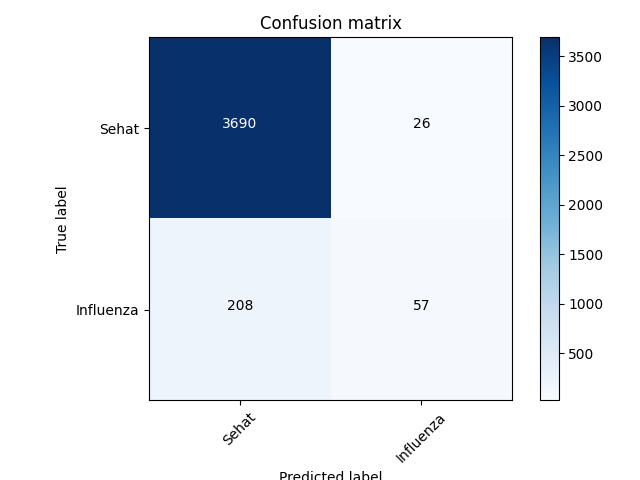
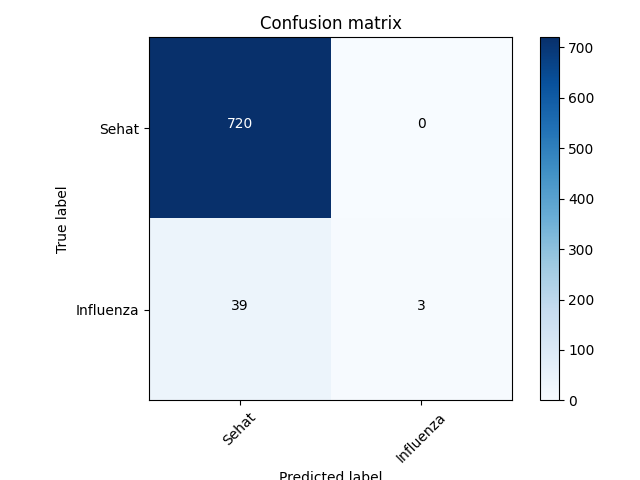
a

diff --git a/skenario1/templates/halamanFullMLP.html b/skenario1/templates/halamanFullMLP.html
@@ -73,14 +73,14 @@
 {% endif %}
 <!-- Page Content -->
 <div class="w3-content w3-padding-64 w3-xlarge" id="container" >
-    <form class="w3-container" action="/MLP" method="POST">
+    <form class="w3-container" action="/MLP" method="POST" enctype="multipart/form-data">
         <h2>Mencari data dengan MLP</h2>
         <p><select class="w3-select" name="pasien">
           <option value="" disabled selected>~~Urutan Pasien~~</option>
           <option value="1">Pasien 1</option>
           <option value="2">Pasien 2</option>
         </select></p>
-        <p><input class="w3-input w3-hover-green" type="text" name="BPM" placeholder="silahkan masukan detak jantung"></p>
+        <p><input class="w3-input w3-hover-green" type="file" name="BPM" placeholder="silahkan masukan detak jantung"></p>
         <input type="submit" class="w3-button w3-teal" value="submit">
       </form>
       <br>

diff --git a/skenario1/templates/halamanFullSVM.html b/skenario1/templates/halamanFullSVM.html
@@ -74,14 +74,14 @@
   
 <!-- Page Content -->
 <div class="w3-content w3-padding-64 w3-xlarge" id="container" >
-    <form class="w3-container" action="/SVM" method="POST">
+    <form class="w3-container" action="/SVM" method="POST" enctype="multipart/form-data">
         <h2>Mencari data dengan SVM</h2>
         <p><select class="w3-select" name="pasien">
           <option value="" disabled selected>~~Urutan Pasien~~</option>
           <option value="1">Pasien 1</option>
           <option value="2">Pasien 2</option>
         </select></p>
-        <p><input class="w3-input w3-hover-green" type="text" name="BPM" placeholder="silahkan masukan detak jantung"></p>
+        <p><input class="w3-input w3-hover-green" type="file" name="BPM" placeholder="silahkan masukan detak jantung"></p>
         <input type="submit" class="w3-button w3-teal" value="submit">
       </form>
       <br>

diff --git a/skenario1/module/SVM2.py b/skenario1/module/SVM2.py
@@ -74,7 +74,7 @@ class svm2:
         import itertools
 
         def plot_confusion_matrix(cm, classes,
-                                normalize=True,
+                                normalize=False,
                                 title='Confusion matrix',
                                 cmap=plt.cm.Blues):
             """
@@ -114,9 +114,9 @@ class svm2:
 
         # Plot non-normalized confusion matrix
         plt.figure()
-        plot_confusion_matrix(cnf_matrix, classes=['Sehat','Influenza'],normalize= True,  title='Confusion matrix')
+        plot_confusion_matrix(cnf_matrix, classes=['Sehat','Influenza'],normalize= False,  title='Confusion matrix')
         # plot_confusion_matrix(cnf_matrix_training_data, classes=['Sehat','Influenza'],normalize= False,  title='Confusion matrix')
-        plt.savefig('svm.png')
+        plt.savefig('static/img/svm.png')
         from sklearn.metrics import f1_score
         f1_score(y_test, yhat, average='weighted')
 
